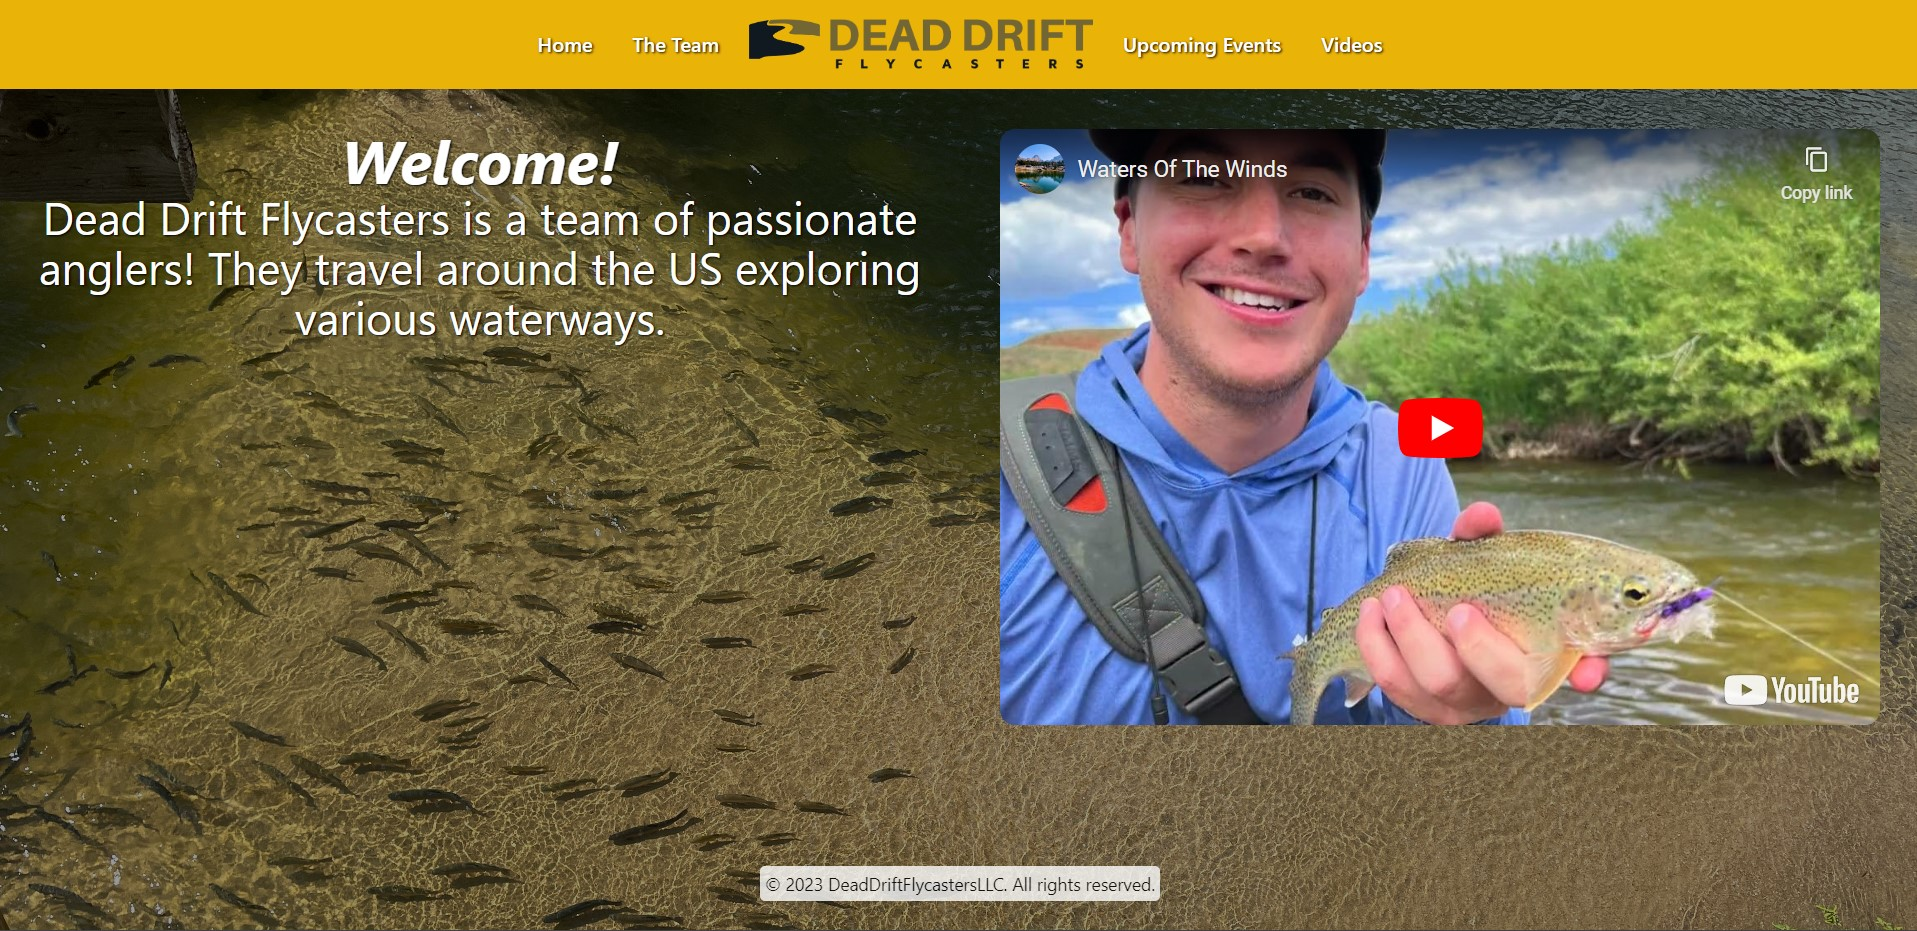
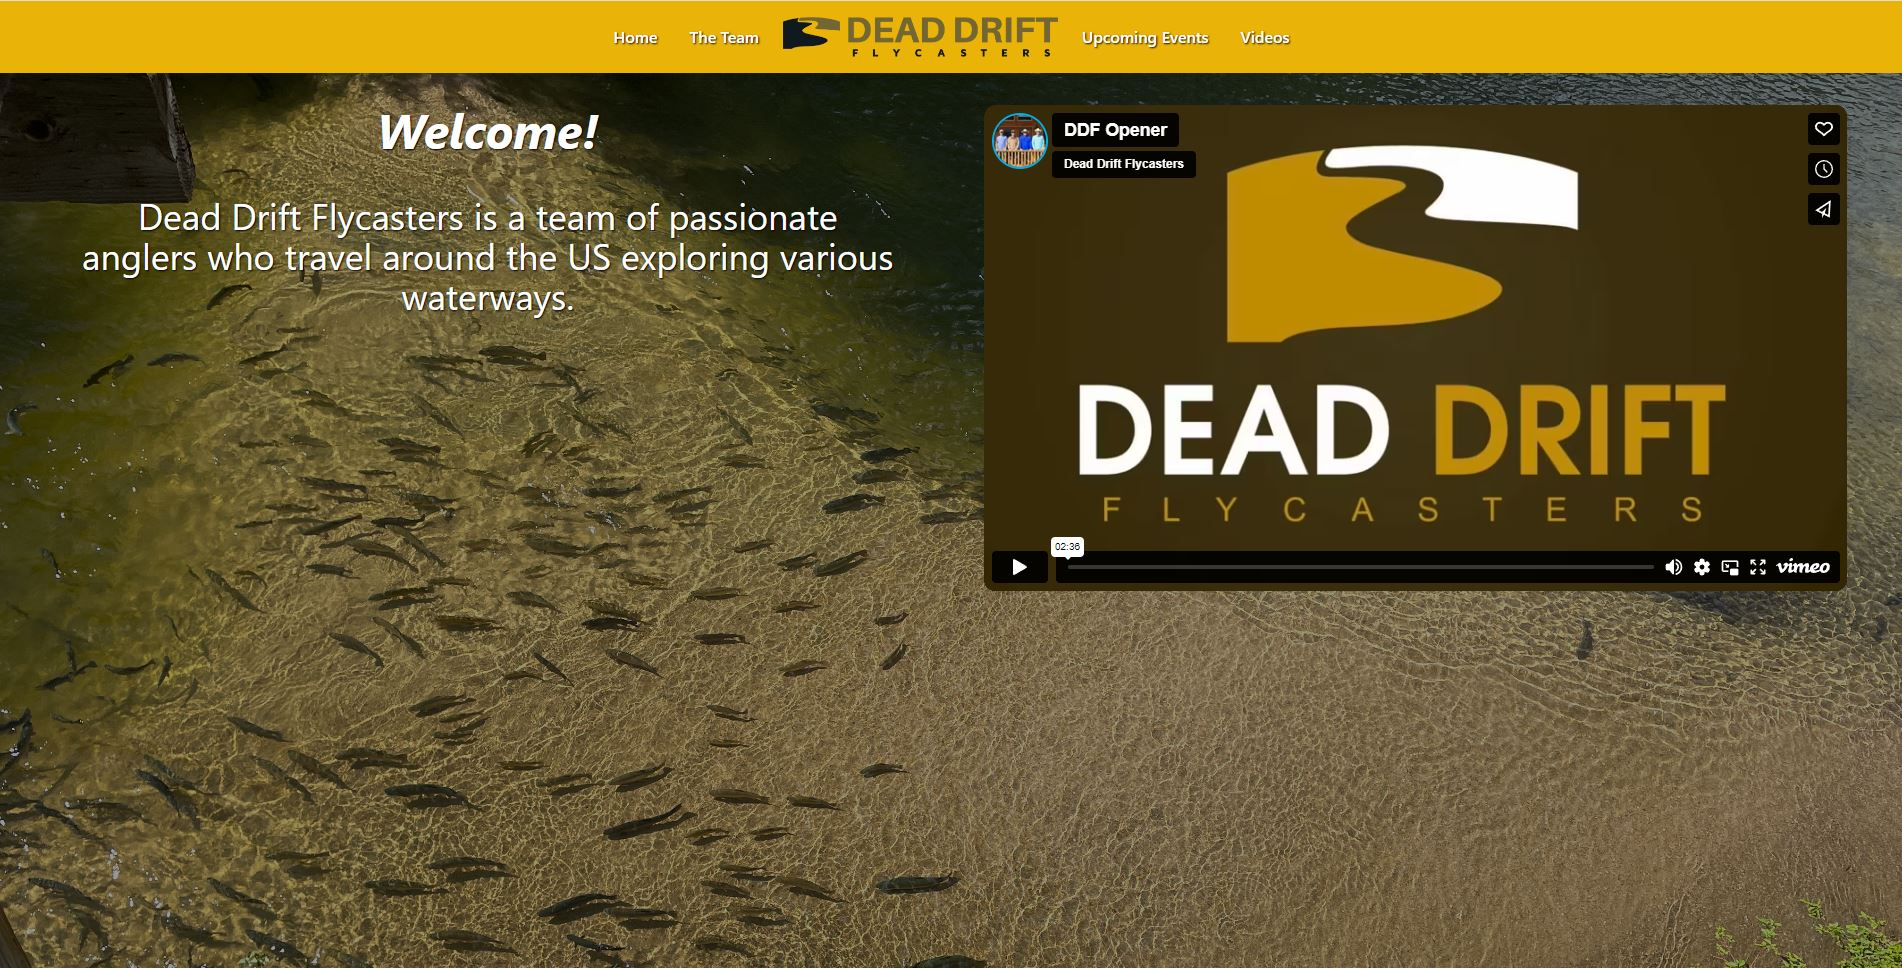
updated dead drift pic and link

diff --git a/public/data/portfolio.ts b/public/data/portfolio.ts
@@ -8,13 +8,13 @@ export default [
   {
     title: "Music Notes Generator",
     imgUrl: "assets/music-note-generator.jpg",
-    stack: ["React", "Javascript", "CSS", "JQuery", "MIDI"],
+    stack: ["React", "Javascript", "CSS", "jQuery", "MIDI"],
     link: "https://simple-music-generator.vercel.app/",
   },
   {
     title: "Dead Drift Flycasters",
     imgUrl: "assets/dead-drift-flycasters.jpg",
-    stack: ["React", "Javascript", "Tailwind", "JQuery"],
-    link: "https://grayson-remington.github.io/dead-drift-flycasters/",
+    stack: ["NextJS", "Typescript", "Tailwind"],
+    link: "https://dead-drift-next.vercel.app/",
   },
 ];
